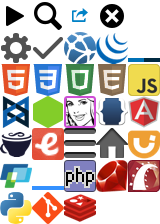
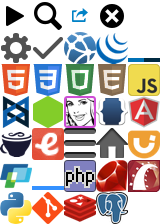
Add PostgreSQL documentation

Changed region(s): [[0.5938, 0.8438, 0.8125, 1.0]]

diff --git a/assets/stylesheets/pages/_postgres.scss b/assets/stylesheets/pages/_postgres.scss
@@ -1,0 +1,13 @@
+._postgres {
+  padding-left: 1rem;
+
+  h1, h1 ~ p, h2 { margin-left: -1rem; }
+  h2 { @extend %block-heading; }
+
+  .VARIABLELIST dt { @extend %block-label, %label-blue; }
+
+  blockquote.NOTE, blockquote.IMPORTANT { @extend %note; }
+  blockquote.TIP { @extend %note, %note-green; }
+
+  p > code { @extend %label; }
+}

diff --git a/assets/stylesheets/global/_icons.scss b/assets/stylesheets/global/_icons.scss
@@ -44,3 +44,4 @@
 ._icon-python:before        { background-position: 0 -6rem; }
 ._icon-git:before           { background-position: -1rem -6rem; }
 ._icon-redis:before         { background-position: -2rem -6rem; }
+._icon-postgresql:before    { background-position: -3rem -6rem; }

diff --git a/assets/stylesheets/application.css.scss b/assets/stylesheets/application.css.scss
@@ -37,6 +37,7 @@
         'pages/mdn',
         'pages/node',
         'pages/php',
+        'pages/postgres',
         'pages/rdoc',
         'pages/redis',
         'pages/rfc',

diff --git a/lib/docs/filters/postgresql/entries.rb b/lib/docs/filters/postgresql/entries.rb
@@ -1,0 +1,153 @@
+module Docs
+  class Postgresql
+    class EntriesFilter < Docs::EntriesFilter
+      REPLACE_NAMES = {
+        'Sorting Rows'                    => 'ORDER BY',
+        'Select Lists'                    => 'SELECT Lists',
+        'Data Type Formatting Functions'  => 'Formatting Functions',
+        'Enum Support Functions'          => 'Enum Functions',
+        'Row and Array Comparisons'       => 'Array Comparisons',
+        'Sequence Manipulation Functions' => 'Sequence Functions',
+        'System Administration Functions' => 'Administration Functions',
+        'System Information Functions'    => 'Information Functions' }
+
+      def get_name
+        name = at_css('h1').content
+        clean_heading_name(name)
+
+        if %w(Overview Introduction).include?(name)
+          result[:pg_chapter_name]
+        else
+          name.sub! ' (Common Table Expressions)', ''
+          REPLACE_NAMES[name] || name
+        end
+      end
+
+      def clean_heading_name(name)
+        name.sub! %r{\A[\d\.\s]+}, ''
+        name.sub! 'Using ', ''
+        name.sub! %r{\AThe }, ''
+        name
+      end
+
+      def get_type
+        return if initial_page?
+
+        if result[:pg_up_path] == 'sql-commands.html'
+          'Commands'
+        elsif result[:pg_up_path].start_with? 'reference-'
+          'Applications'
+        elsif type = result[:pg_chapter_name]
+          if type.start_with?('Func') && (match = name.match(/\A(?!Form|Seq|Set|Enum)(.+) Func/))
+            "Functions: #{match[1]}"
+          else
+            type.sub 'SQL ', ''
+          end
+        end
+      end
+
+      def additional_entries
+        return [] if skip_additional_entries?
+        return get_config_entries if config_page?
+        return get_heading_entries('h3[id]') if slug == 'functions-xml'
+
+        if type == 'Data Types'
+          return get_custom_entries case slug
+            when 'rangetypes'          then 'li > p > .TYPE:first-child'
+            when 'datatype-textsearch' then '.SECT2 > .TYPE'
+            else '.CALSTABLE td:first-child > .TYPE' end
+        end
+
+        entries = get_heading_entries('h2[id]')
+
+        if slug == 'queries-union'
+          entries.concat get_custom_entries('p > .LITERAL:first-child')
+        elsif slug == 'queries-table-expressions'
+          entries.concat get_heading_entries('h3[id]')
+          entries.concat get_custom_entries('dt > .LITERAL:first-child')
+        elsif slug == 'functions-logical'
+          entries.concat get_custom_entries('> table td:first-child > code')
+        elsif slug == 'functions-formatting'
+          entries.concat get_custom_entries('#FUNCTIONS-FORMATTING-TABLE td:first-child > code')
+        elsif slug == 'functions-admin'
+          entries.concat get_custom_entries('.TABLE td:first-child > code')
+        elsif slug == 'functions-string'
+          entries.concat get_custom_entries('> div[id^="FUNC"] td:first-child > code')
+        elsif type && type.start_with?('Functions')
+          entries.concat get_custom_entries('> .TABLE td:first-child > code:first-child')
+          entries.concat get_comparison_entries if slug == 'functions-comparison'
+        end
+
+        entries
+      end
+
+      def get_config_entries
+        css('.VARIABLELIST dt[id]').map do |node|
+          name = node.at_css('.VARNAME').content
+          ["Config: #{name}", node['id']]
+        end
+      end
+
+      def get_heading_entries(selector)
+        css(selector).inject [] do |entries, node|
+          name = node.content
+          clean_heading_name(name)
+
+          unless skip_heading?(name)
+            entries << ["#{additional_entry_prefix}: #{name}", node['id']]
+          end
+
+          entries
+        end
+      end
+
+      def get_custom_entries(selector)
+        css(selector).inject [] do |entries, node|
+          name = node.content
+          name.gsub! %r{\(.*?\)}m, ''
+          name.gsub! %r{\[.*?\]}m, ''
+          name.squeeze! ' '
+          name.sub! %r{\([^\)]*\z}, '' # bug fix: json_populate_record
+          name = '||' if name.include? ' || '
+          id = name.gsub(/[^a-z0-9\-_]/) { |char| char.ord }
+          id = id.parameterize
+          name.prepend "#{additional_entry_prefix}: "
+
+          unless entries.any? { |entry| entry[0] == name }
+            node['id'] = id
+            entries << [name, id]
+          end
+
+          entries
+        end
+      end
+
+      def get_comparison_entries
+        %w(IS NULL BETWEEN DISTINCT\ FROM).map do |name|
+          ["#{self.name}: #{name}"]
+        end
+      end
+
+      def additional_entry_prefix
+        type.dup.sub!('Functions: ', '') || self.name
+      end
+
+      def skip_additional_entries?
+        slug == 'config-setting' || %w(Concurrency\ Control Localization).include?(type)
+      end
+
+      def skip_heading?(name)
+        %w(Usage\ Patterns Portability Caveats Overview).include?(name) ||
+        (type.start_with?('Functions') && slug != 'functions-xml' && name.split.first.upcase!)
+      end
+
+      def include_default_entry?
+        !(initial_page? || at_css('.TOC') || config_page?)
+      end
+
+      def config_page?
+        slug.start_with? 'runtime-config'
+      end
+    end
+  end
+end

diff --git a/lib/docs/scrapers/postgresql.rb b/lib/docs/scrapers/postgresql.rb
@@ -1,0 +1,55 @@
+module Docs
+  class Postgresql < FileScraper
+    self.name = 'PostgreSQL'
+    self.type = 'postgres'
+    self.version = 'up to 9.3.2'
+    self.dir = '/Users/Thibaut/DevDocs/Docs/PostgreSQL'
+    self.base_url = 'http://www.postgresql.org/docs/9.3/static/'
+    self.root_path = 'reference.html'
+    self.initial_paths = %w(sql.html runtime-config.html charset.html)
+
+    html_filters.insert_before 'normalize_urls', 'postgresql/clean_nav'
+    html_filters.push 'postgresql/clean_html', 'postgresql/entries', 'title'
+
+    options[:title] = false
+    options[:root_title] = 'PostgreSQL'
+    options[:follow_links] = ->(filter) { filter.initial_page? }
+
+    options[:only] = %w(
+      arrays.html
+      rowtypes.html
+      rangetypes.html
+      mvcc-intro.html
+      transaction-iso.html
+      explicit-locking.html
+      applevel-consistency.html
+      locking-indexes.html
+      config-setting.html
+      locale.html
+      collation.html
+      multibyte.html)
+
+    options[:only_patterns] = [
+      /\Asql\-/,
+      /\Aapp\-/,
+      /\Addl\-/,
+      /\Adml\-/,
+      /\Aqueries\-/,
+      /\Adatatype\-/,
+      /\Afunctions\-/,
+      /\Aindexes\-/,
+      /\Aruntime\-config\-/]
+
+    options[:skip] = %w(
+      ddl-others.html
+      runtime-config-custom.html
+      runtime-config-short.html
+      functions-event-triggers.html
+      functions-trigger.html)
+
+    options[:attribution] = <<-HTML
+      &copy; 1996&ndash;2013 The PostgreSQL Global Development Group<br>
+      Licensed under the PostgreSQL License.
+    HTML
+  end
+end

diff --git a/lib/docs/filters/postgresql/clean_html.rb b/lib/docs/filters/postgresql/clean_html.rb
@@ -1,0 +1,44 @@
+module Docs
+  class Postgresql
+    class CleanHtmlFilter < Filter
+      def call
+        root_page? ? root : other
+        doc
+      end
+
+      def root
+        doc.inner_html = ' '
+      end
+
+      def other
+        css('a[name]').each do |node|
+          node.parent['id'] = node['name']
+          node.before(node.children).remove
+        end
+
+        css('div.SECT1', 'pre > kbd', 'tt > code', 'h1 > tt').each do |node|
+          node.before(node.children).remove
+        end
+
+        css('table').each do |node|
+          node.remove_attribute 'border'
+          node.remove_attribute 'width'
+        end
+
+        css('td').each do |node|
+          node.remove_attribute 'align'
+          node.remove_attribute 'valign'
+        end
+
+        css('tt').each do |node|
+          node.name = 'code'
+        end
+
+        css('.REFSYNOPSISDIV > p').each do |node|
+          node.name = 'pre'
+          node.content = node.content
+        end
+      end
+    end
+  end
+end

diff --git a/lib/docs/filters/postgresql/clean_nav.rb b/lib/docs/filters/postgresql/clean_nav.rb
@@ -1,0 +1,25 @@
+module Docs
+  class Postgresql
+    class CleanNavFilter < Filter
+      def call
+        extract_up_path
+        extract_chapter
+        css('.NAVHEADER', '.NAVFOOTER').remove
+        doc
+      end
+
+      def extract_up_path
+        if node = at_css('.NAVHEADER a[accesskey="U"]')
+          result[:pg_up_path] = node['href']
+        end
+      end
+
+      def extract_chapter
+        return unless text = at_css('.NAVHEADER td[align="center"]').content
+        return unless match = text.match(/\AChapter (\d+)\. (.+)\z/)
+        result[:pg_chapter] = match[1].to_i
+        result[:pg_chapter_name] = match[2]
+      end
+    end
+  end
+end
